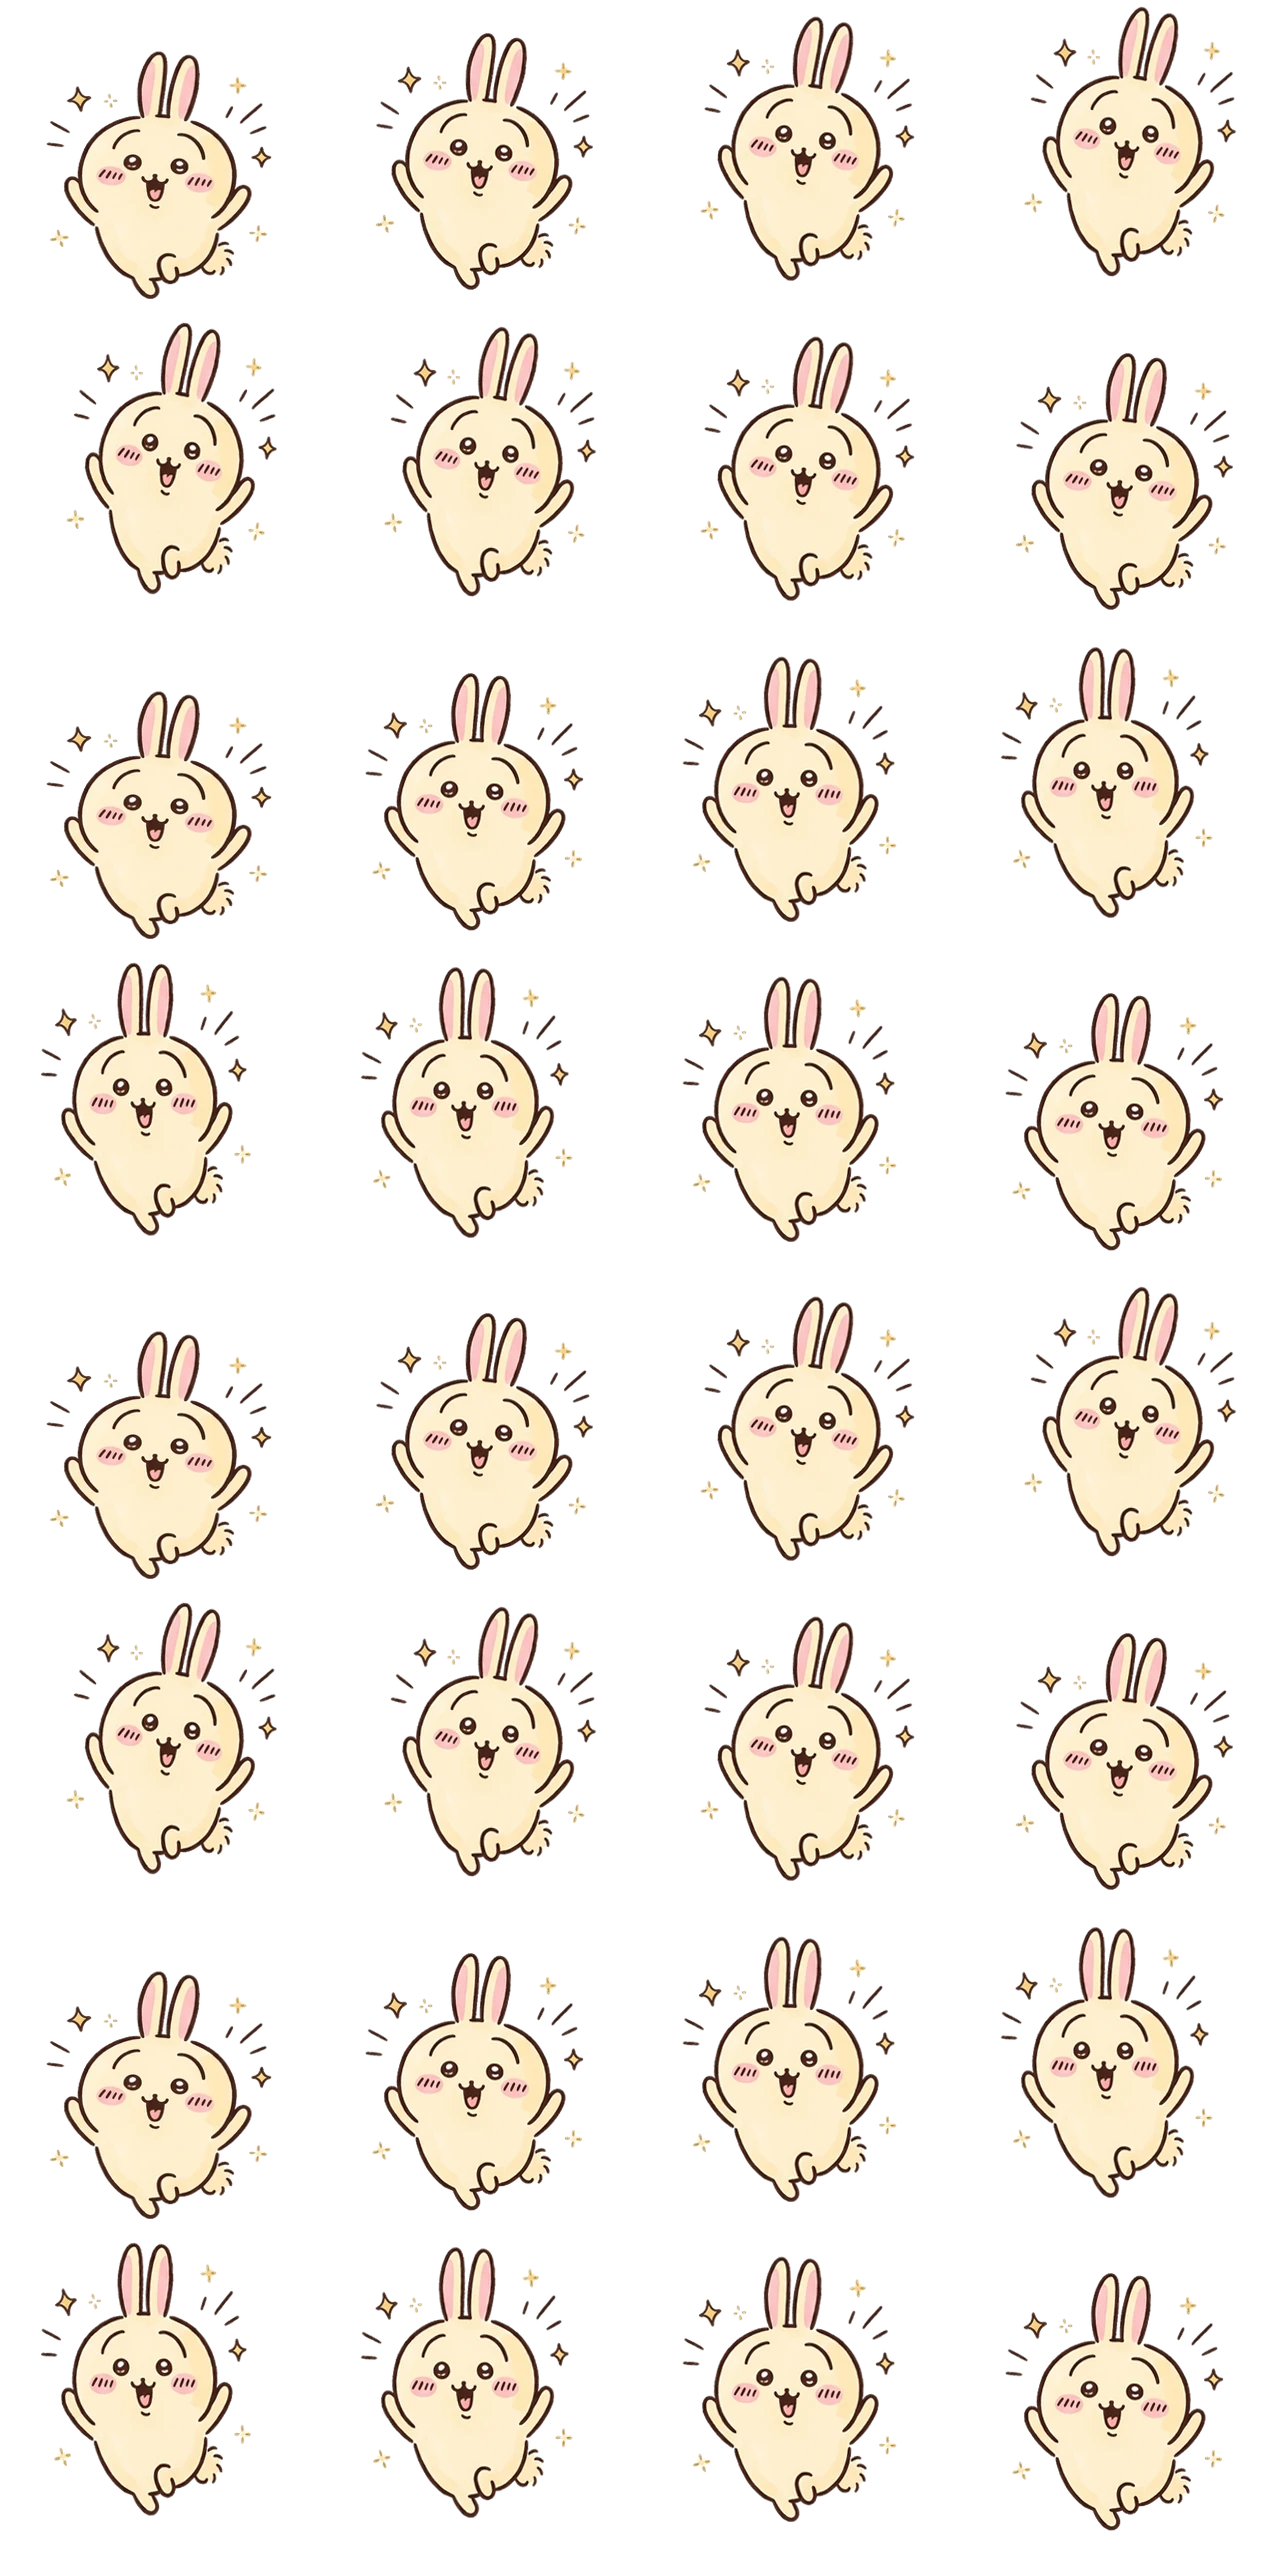
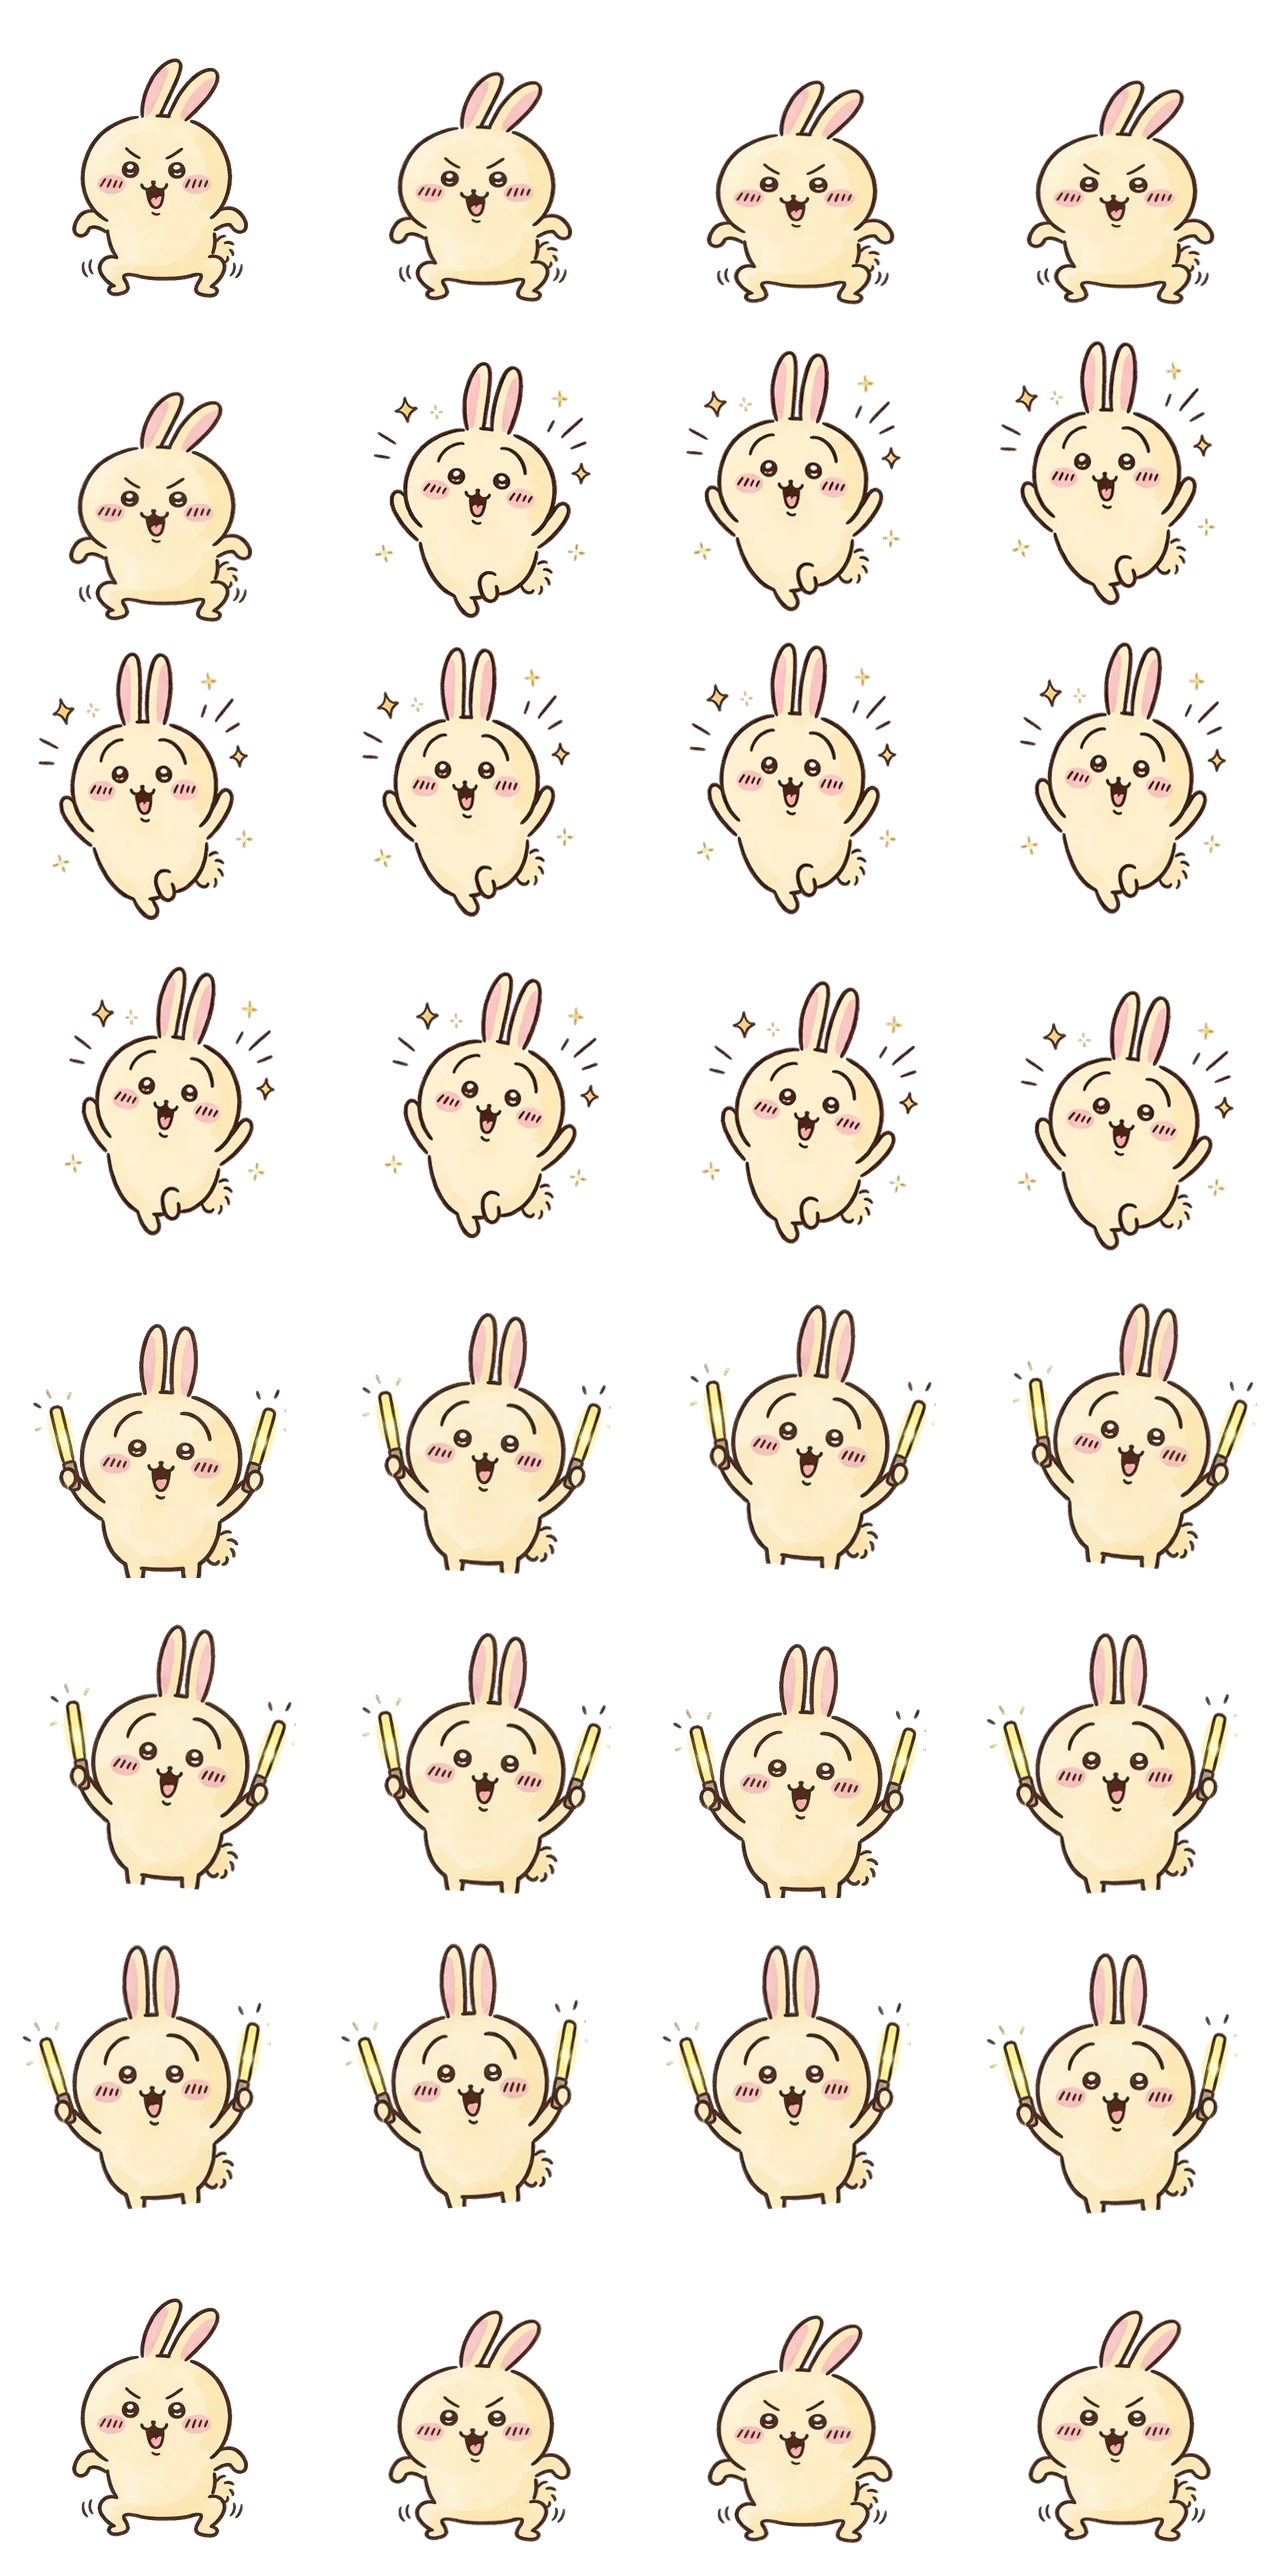
feat(pet): upgrade Usagi to 9 distinct 32-frame multi-keyframe atlases at 50-60fps

diff --git a/android/app/src/main/java/io/deepseekharness/mobile/overlay/CompanionPetDrawable.kt b/android/app/src/main/java/io/deepseekharness/mobile/overlay/CompanionPetDrawable.kt
@@ -68,21 +68,26 @@ internal class CompanionPetDrawable(
         prewarmHotAtlases()
     }
 
-    private fun usagiAtlasPath(name: String, rows: Int): String {
-        if (rows <= 4) return "pet-cels-usagi/idle_16.webp"
+    private fun usagiAtlasPath(name: String, @Suppress("UNUSED_PARAMETER") rows: Int): String {
         val base = name.removeSuffix("_enter").removeSuffix("_return")
         return when (base) {
-            "writing", "drink" -> "pet-cels-usagi/writing_32.webp"
-            "control", "drag", "touch" -> "pet-cels-usagi/control_32.webp"
+            "drag" -> "pet-cels-usagi/drag_32.webp"
+            "touch" -> "pet-cels-usagi/touch_32.webp"
+            "paused", "stopped", "sleep" -> "pet-cels-usagi/sleep_32.webp"
+            "drink" -> "pet-cels-usagi/drink_32.webp"
+            "writing" -> "pet-cels-usagi/writing_32.webp"
+            "control" -> "pet-cels-usagi/control_32.webp"
             "celebrate", "accept", "reply", "notice" -> "pet-cels-usagi/celebrate_32.webp"
-            else -> "pet-cels-usagi/reading_32.webp"
+            "reading" -> "pet-cels-usagi/reading_32.webp"
+            else -> "pet-cels-usagi/idle_32.webp"
         }
     }
 
     private fun decode(name: String): Bitmap {
         val cellSize = targetSize.coerceIn(96, PetCels.CELL)
-        val rows = PetCels.clips.getValue(name).rows
-        val assetPath = if (usagiTheme) usagiAtlasPath(name, rows) else "pet-cels/$name.webp"
+        val clipRows = PetCels.clips.getValue(name).rows
+        val assetPath = if (usagiTheme) usagiAtlasPath(name, clipRows) else "pet-cels/$name.webp"
+        val rows = if (usagiTheme && assetPath.endsWith("_32.webp")) 8 else clipRows
         val raw = resources.assets.open(assetPath).use {
             BitmapFactory.decodeStream(it, null, BitmapFactory.Options().apply {
                 // Bake density scaling during the off-main decode. A 264px avatar should
@@ -189,7 +194,7 @@ internal class CompanionPetDrawable(
     private fun prewarmHotAtlases() {
         // 优先预热拖动与轻点图集，彻底消除首次拖动时同步解码与纹理上传导致的卡顿
         val hot = if (usagiTheme) {
-            listOf("drag", "celebrate", "reading", "writing")
+            listOf("drag", "touch", "celebrate", "drink", "reading", "writing")
         } else {
             listOf("drag_enter", "drag", "touch_enter", "touch", "reading")
         }
@@ -237,8 +242,9 @@ internal class CompanionPetDrawable(
         val totalCells = (PetCels.COLUMNS * rows).coerceAtLeast(1)
         val effectiveFrame = if (usagiTheme && !pose.reduced) {
             val stepMs = when (pose.action) {
-                PetAction.IDLE, PetAction.WAIT, PetAction.PAUSED, PetAction.STOPPED -> 55L
-                else -> 34L
+                PetAction.PAUSED, PetAction.STOPPED -> 52L
+                PetAction.IDLE, PetAction.WAIT -> 36L
+                else -> 24L
             }
             ((android.os.SystemClock.uptimeMillis() / stepMs) % totalCells).toInt()
         } else {
@@ -319,7 +325,7 @@ internal class CompanionPetDrawable(
         if (!pose.reduced && ambientTickAllowed) {
             val isResting = pose.action == PetAction.IDLE || pose.action == PetAction.WAIT ||
                 pose.action == PetAction.PAUSED || pose.action == PetAction.STOPPED
-            val tickMs = if (usagiTheme) (if (isResting) 33L else 20L) else (if (isResting) 42L else 16L)
+            val tickMs = if (usagiTheme) (if (isResting) 20L else 16L) else (if (isResting) 42L else 16L)
             main.removeCallbacks(liveTick)
             main.postDelayed(liveTick, tickMs)
         }
@@ -340,7 +346,7 @@ internal class CompanionPetDrawable(
         cache.clear()
     }
     companion object {
-        const val MAX_ATLASES = 8
+        const val MAX_ATLASES = 10
         const val MAX_BITMAP_BYTES = 48L * 1024 * 1024
     }
 }
